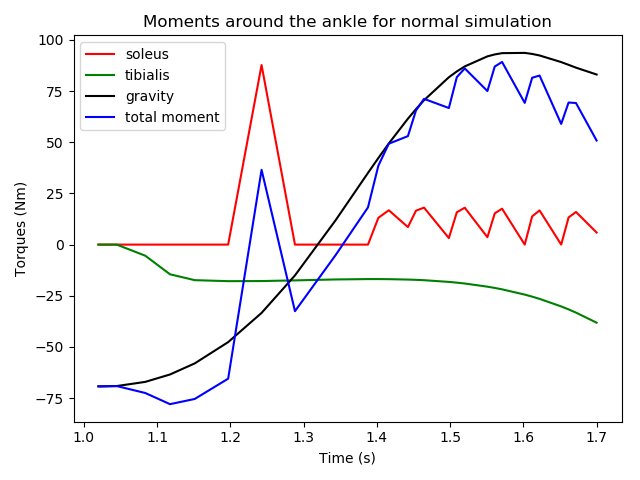
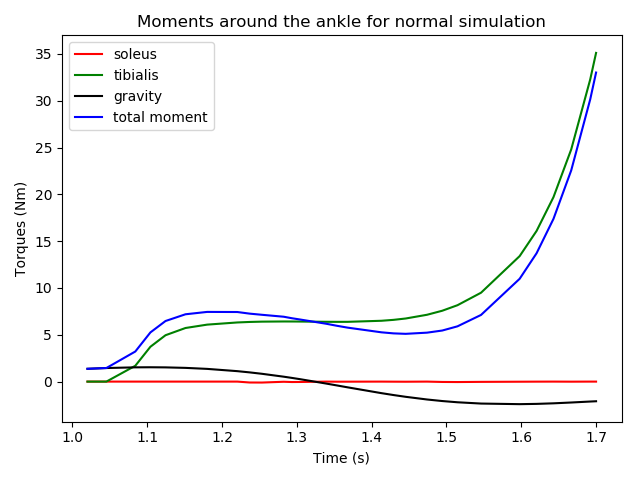
Make angle changes and update results

diff --git a/gait_simulate.py b/gait_simulate.py
@@ -14,7 +14,7 @@ import regression as r
 
 # ******** GLOBAL CONSTANTS ********
 # TODO: UPDATE THESE ! Some are still missing 
-I_ANKLE = 90
+I_ANKLE = 20
 F_MAX_SOLEUS = 16000
 F_MAX_TIBIALIS = 2000
 MOMENT_ARM_SOLEUS = .048
@@ -156,13 +156,11 @@ class GaitSimulator:
         torque_tibant = force_length_tendon_single_val(l_tendon_norm_tibialis) * F_MAX_TIBIALIS * activation_tibialis * MOMENT_ARM_TIBIALIS
         vm_soleus = get_velocity_single_val(activation_soleus, l_ce_norm_soleus, l_tendon_norm_soleus)
         vm_tibialis = get_velocity_single_val(activation_tibialis, l_ce_norm_tibialis, l_tendon_norm_tibialis)
-        # print(vm_soleus, vm_tibialis)
-        print(gravity_moment_ankle(beta, theta, H))
 
         # derivative of state: 
         xd = [0, 0, 0, 0]
         xd[0] = d_beta
-        xd[1] = (torque_tibant - torque_soleus + gravity_moment_ankle(beta, theta, H)) / I_ANKLE 
+        xd[1] = (torque_tibant - torque_soleus - gravity_moment_ankle(beta, theta, H)) / I_ANKLE 
         xd[2] = vm_soleus
         xd[3] = vm_tibialis
         return xd
@@ -348,10 +346,11 @@ def gravity_moment_ankle(beta, theta, H):
     :return moment about ankle due to force of gravity on body
     """
     torso_moment = MASS_TORSO*GRAVITY*(THIGH_LENGTH*np.sin(np.pi - H) + SHANK_LENGTH*np.sin(theta))
-    foot_moment = MASS_FOOT*GRAVITY*D_COM_SHANK_ANKLE*np.cos(np.pi/2 - beta + theta)
+    foot_moment = MASS_FOOT*GRAVITY*D_COM_SHANK_ANKLE*np.sin(beta - theta - np.pi/2)
     shank_moment = MASS_SHANK*GRAVITY*D_COM_SHANK_ANKLE*np.sin(theta)
     thigh_moment = MASS_THIGH*GRAVITY*(D_COM_THIGH_KNEE*np.sin(np.pi - H) + SHANK_LENGTH*np.sin(theta))
-    return -foot_moment + (shank_moment + thigh_moment + thigh_moment)
+    # return -foot_moment + (shank_moment + thigh_moment + thigh_moment)
+    return foot_moment
 
 
 def plot_regressions(t0, tf):

diff --git a/main.py b/main.py
@@ -1,5 +1,5 @@
 from gait_simulate import GaitSimulator 
 import muscle
 
-g = GaitSimulator()
+g = GaitSimulator(True)
 g.simulate()
